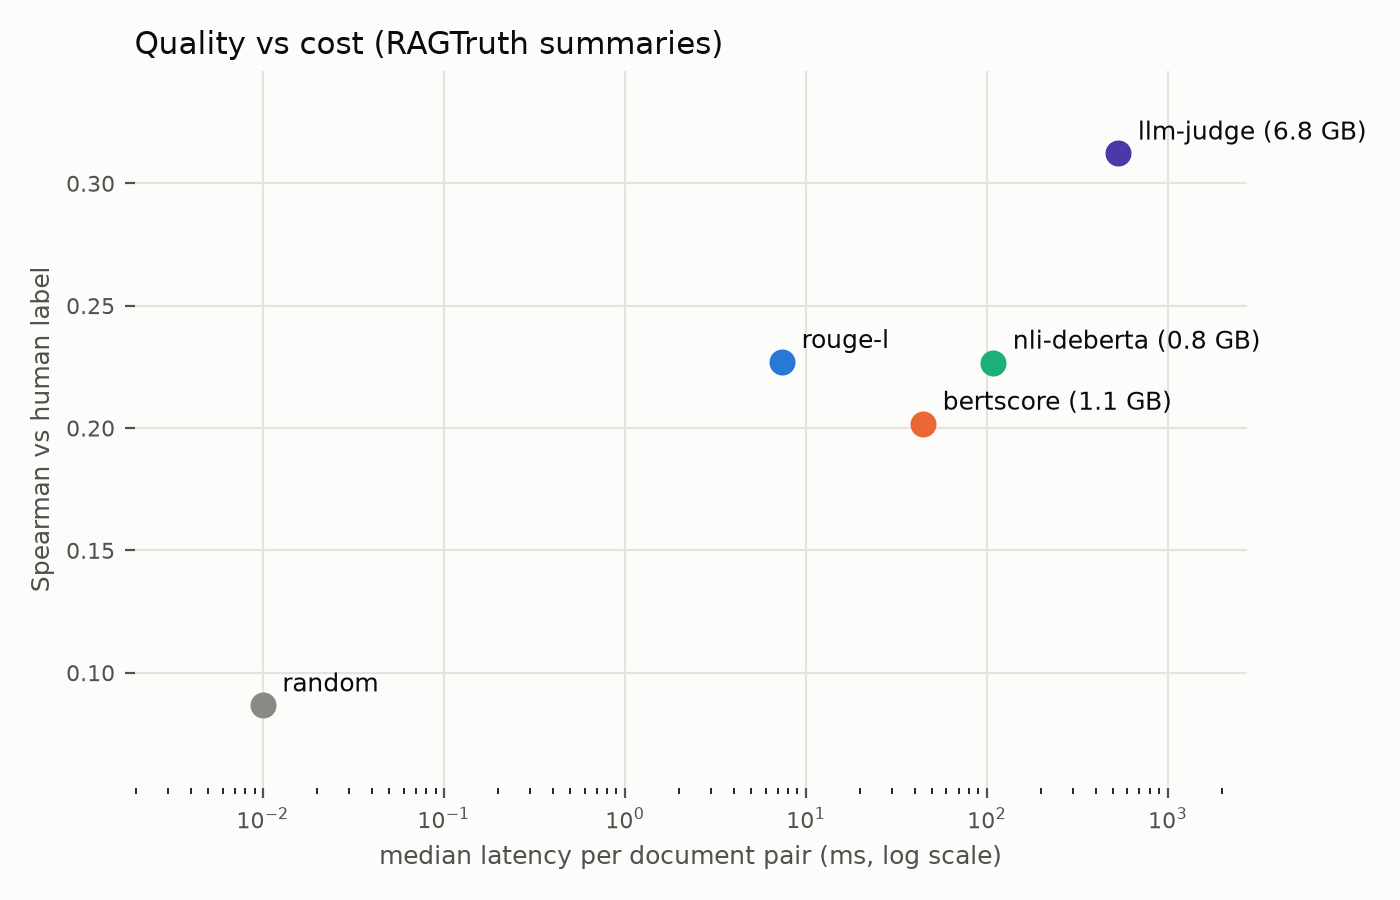
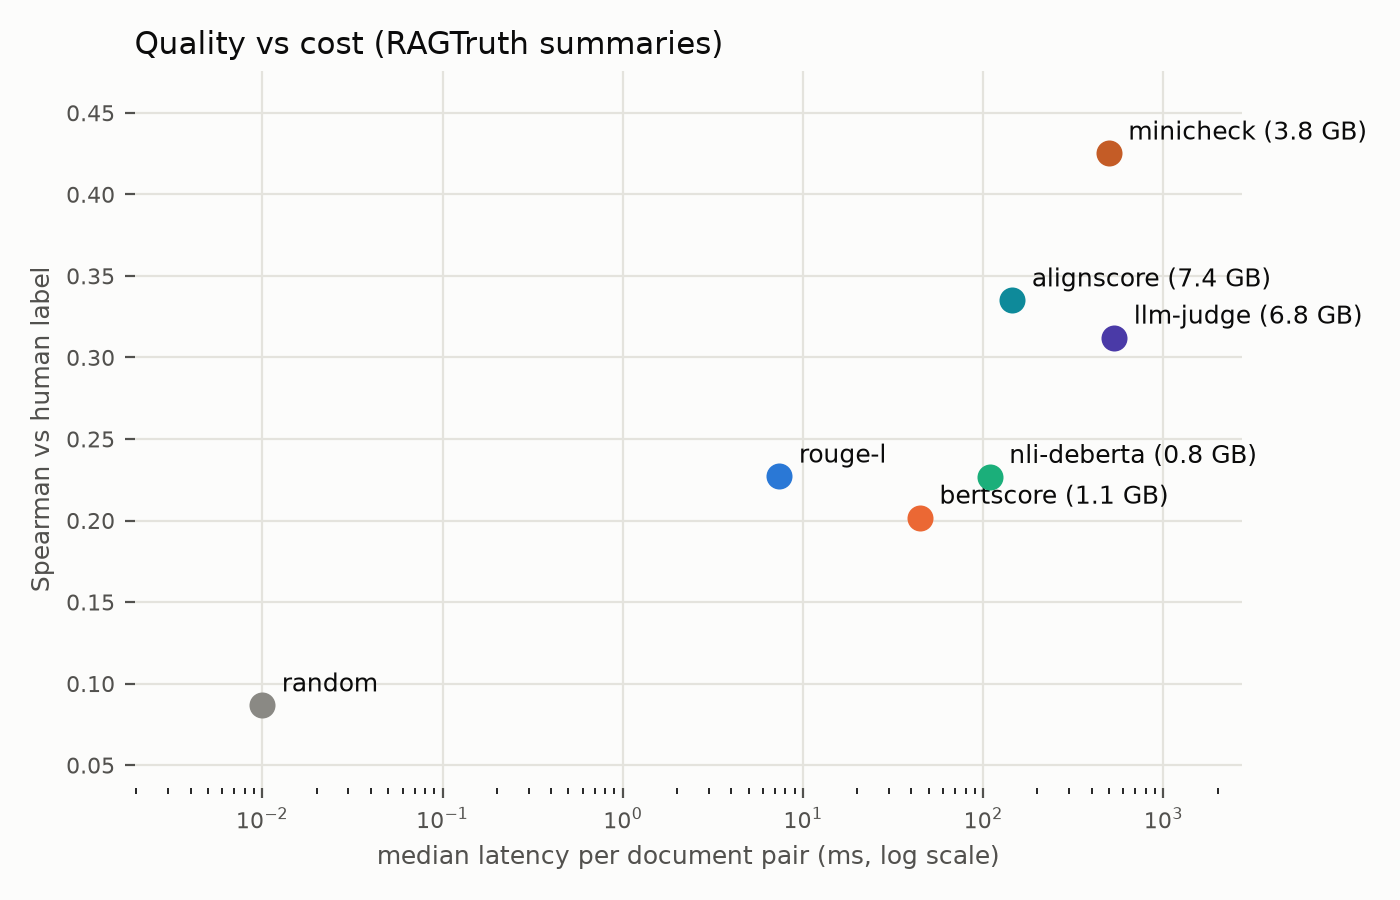
chore: regenerate plots with new scorers

diff --git a/plot.py b/plot.py
@@ -26,6 +26,8 @@ COLORS = {
     "bertscore": "#eb6834",
     "nli-deberta": "#1baf7a",
     "llm-judge": "#4a3aa7",
+    "minicheck": "#c45c26",
+    "alignscore": "#0e8a9a",
 }
 FALLBACK = "#e87ba4"
 
@@ -157,15 +159,22 @@ def scale_curve(judge_rows, nli_auc, outfile):
 
 def main():
     rows = json.load(open("results.json"))
+    if os.path.exists("results-newscorers-summeval.json"):
+        rows = rows + json.load(open("results-newscorers-summeval.json"))
     scatter(rows, "results.png",
             "Faithfulness scoring: quality vs cost (SummEval, n=1600)")
     table(rows, "SummEval (2019-era summaries, n=1600)")
 
     if os.path.exists("results-ragtruth.json"):
         rt = json.load(open("results-ragtruth.json"))
+        if os.path.exists("results-newscorers-ragtruth.json"):
+            rt = rt + json.load(open("results-newscorers-ragtruth.json"))
         scatter(rt, "results-ragtruth.png",
                 "Quality vs cost (RAGTruth summaries)")
-        slope(rows, rt, "SummEval\n(2019-era)", "RAGTruth\n(LLM-era)",
+        # Slope chart keeps the original shared scorers only (era flip).
+        slope(json.load(open("results.json")),
+              json.load(open("results-ragtruth.json")),
+              "SummEval\n(2019-era)", "RAGTruth\n(LLM-era)",
               "comparison.png")
         table(rt, "RAGTruth (LLM-era summaries)")
 
